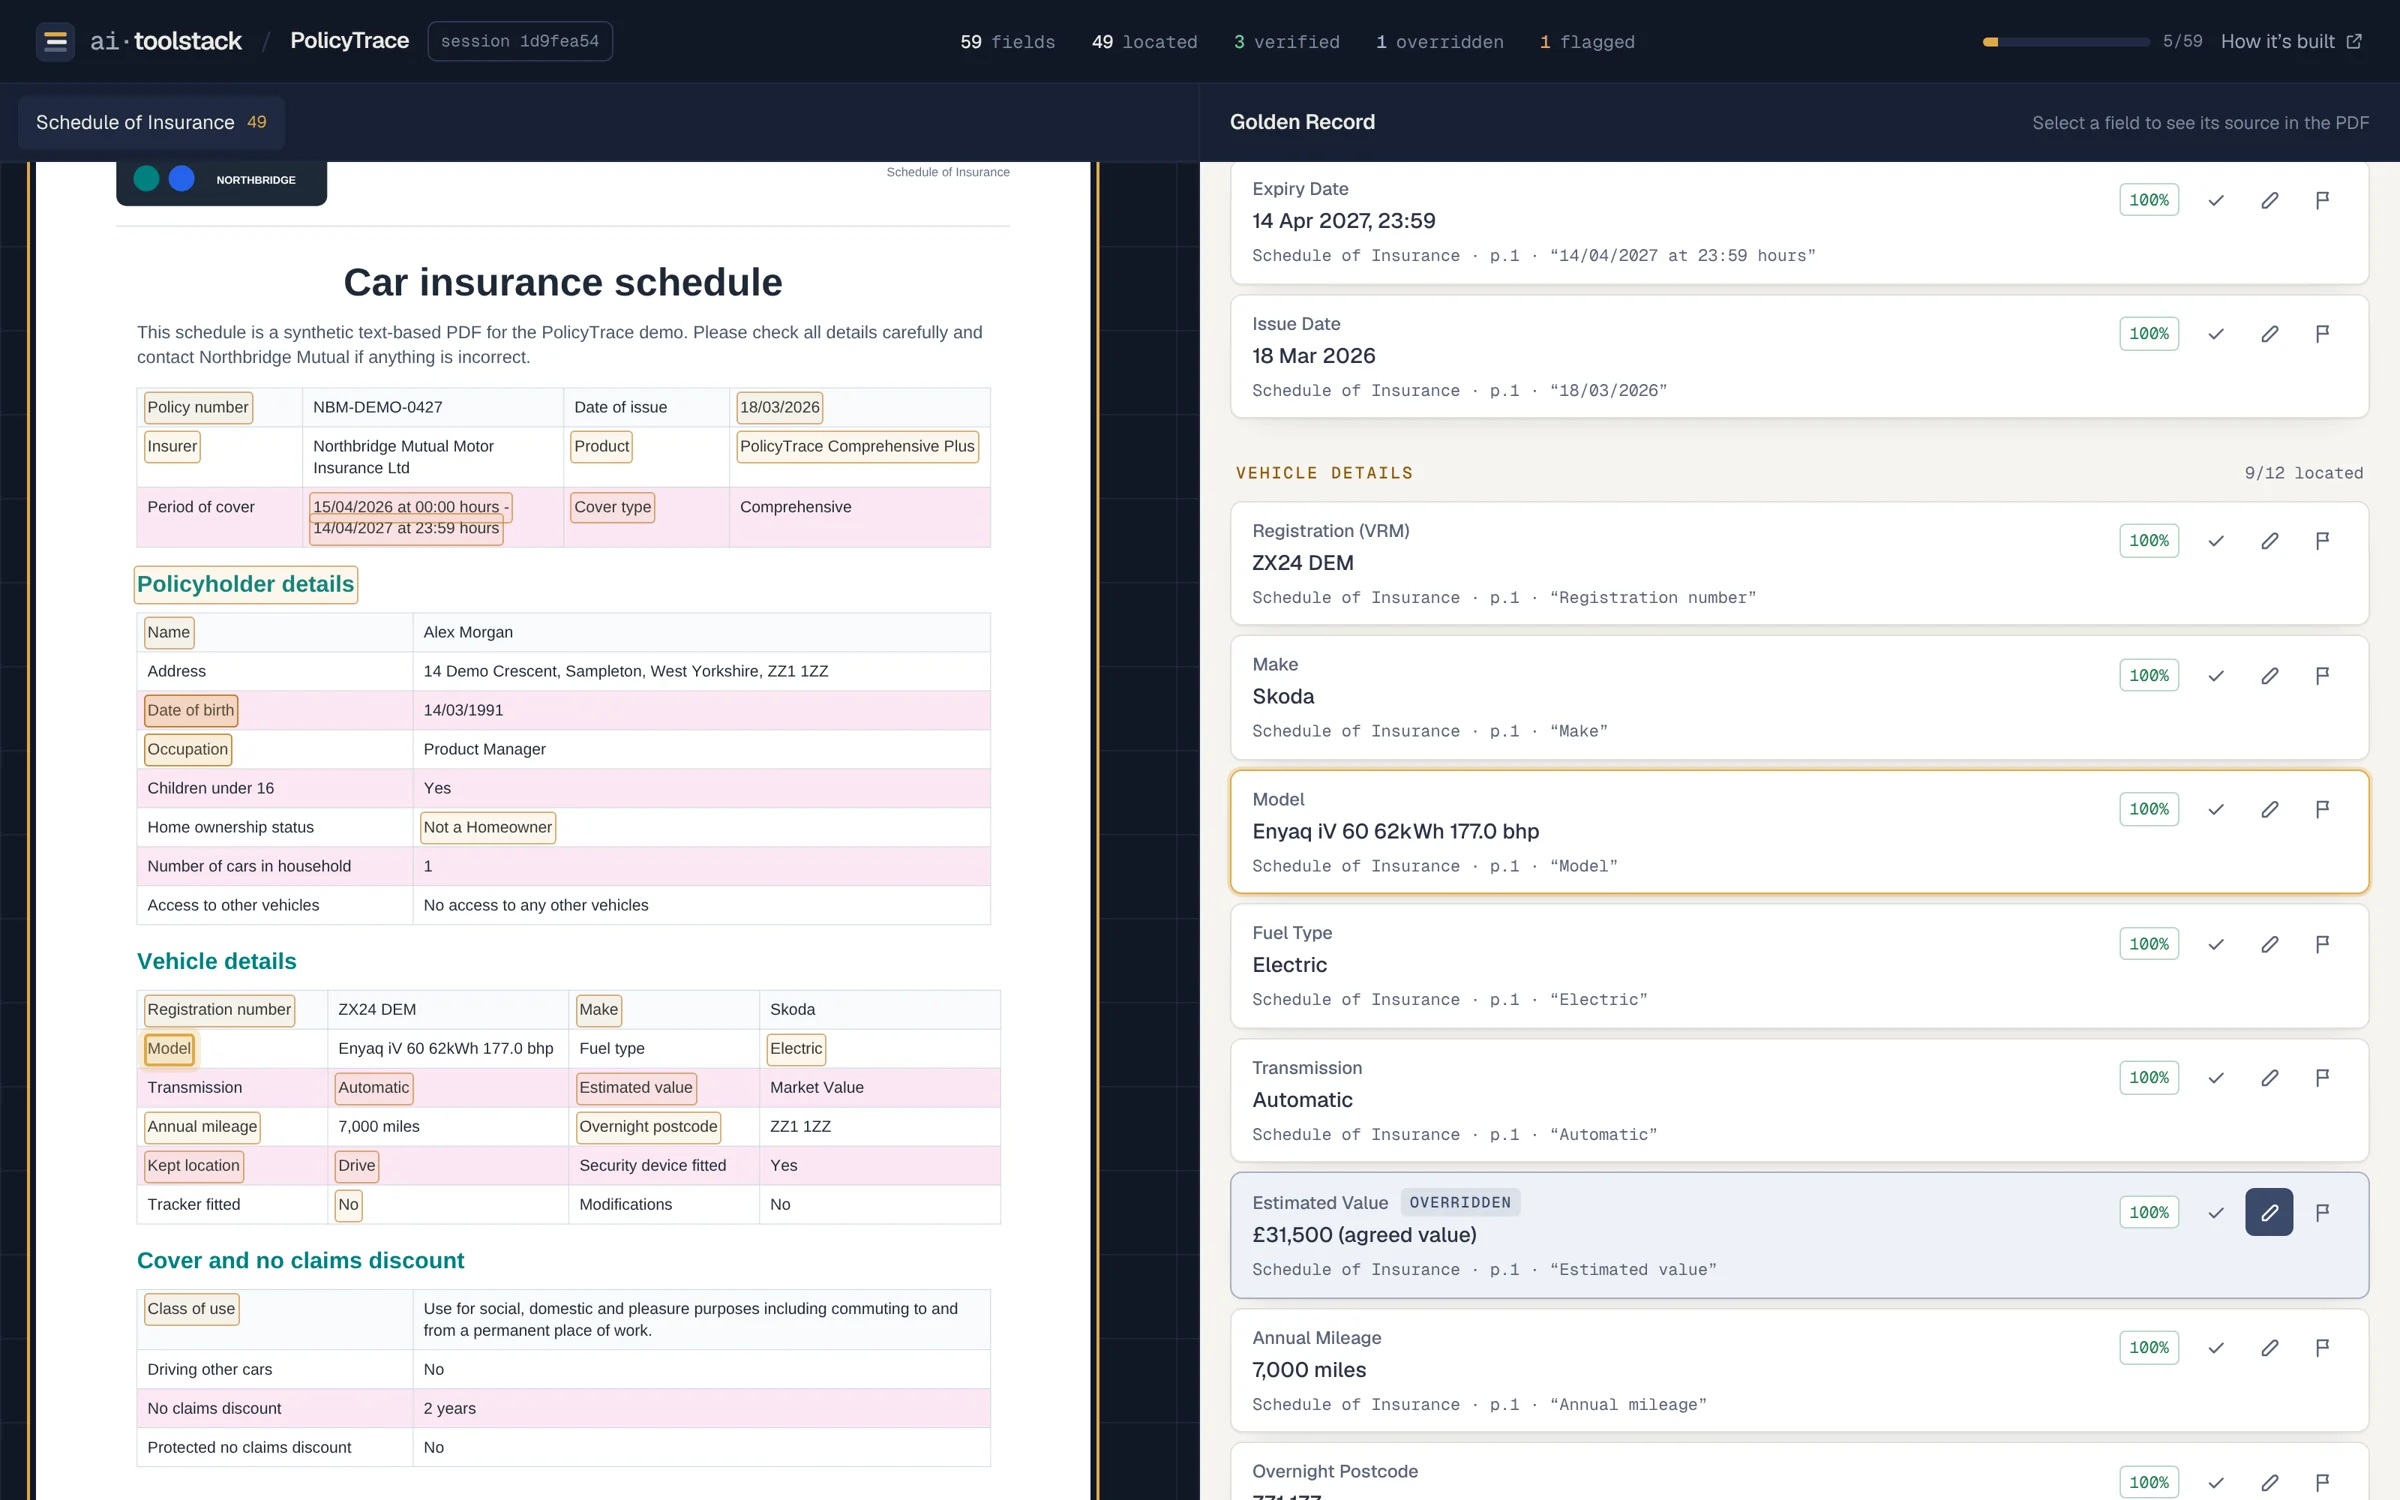
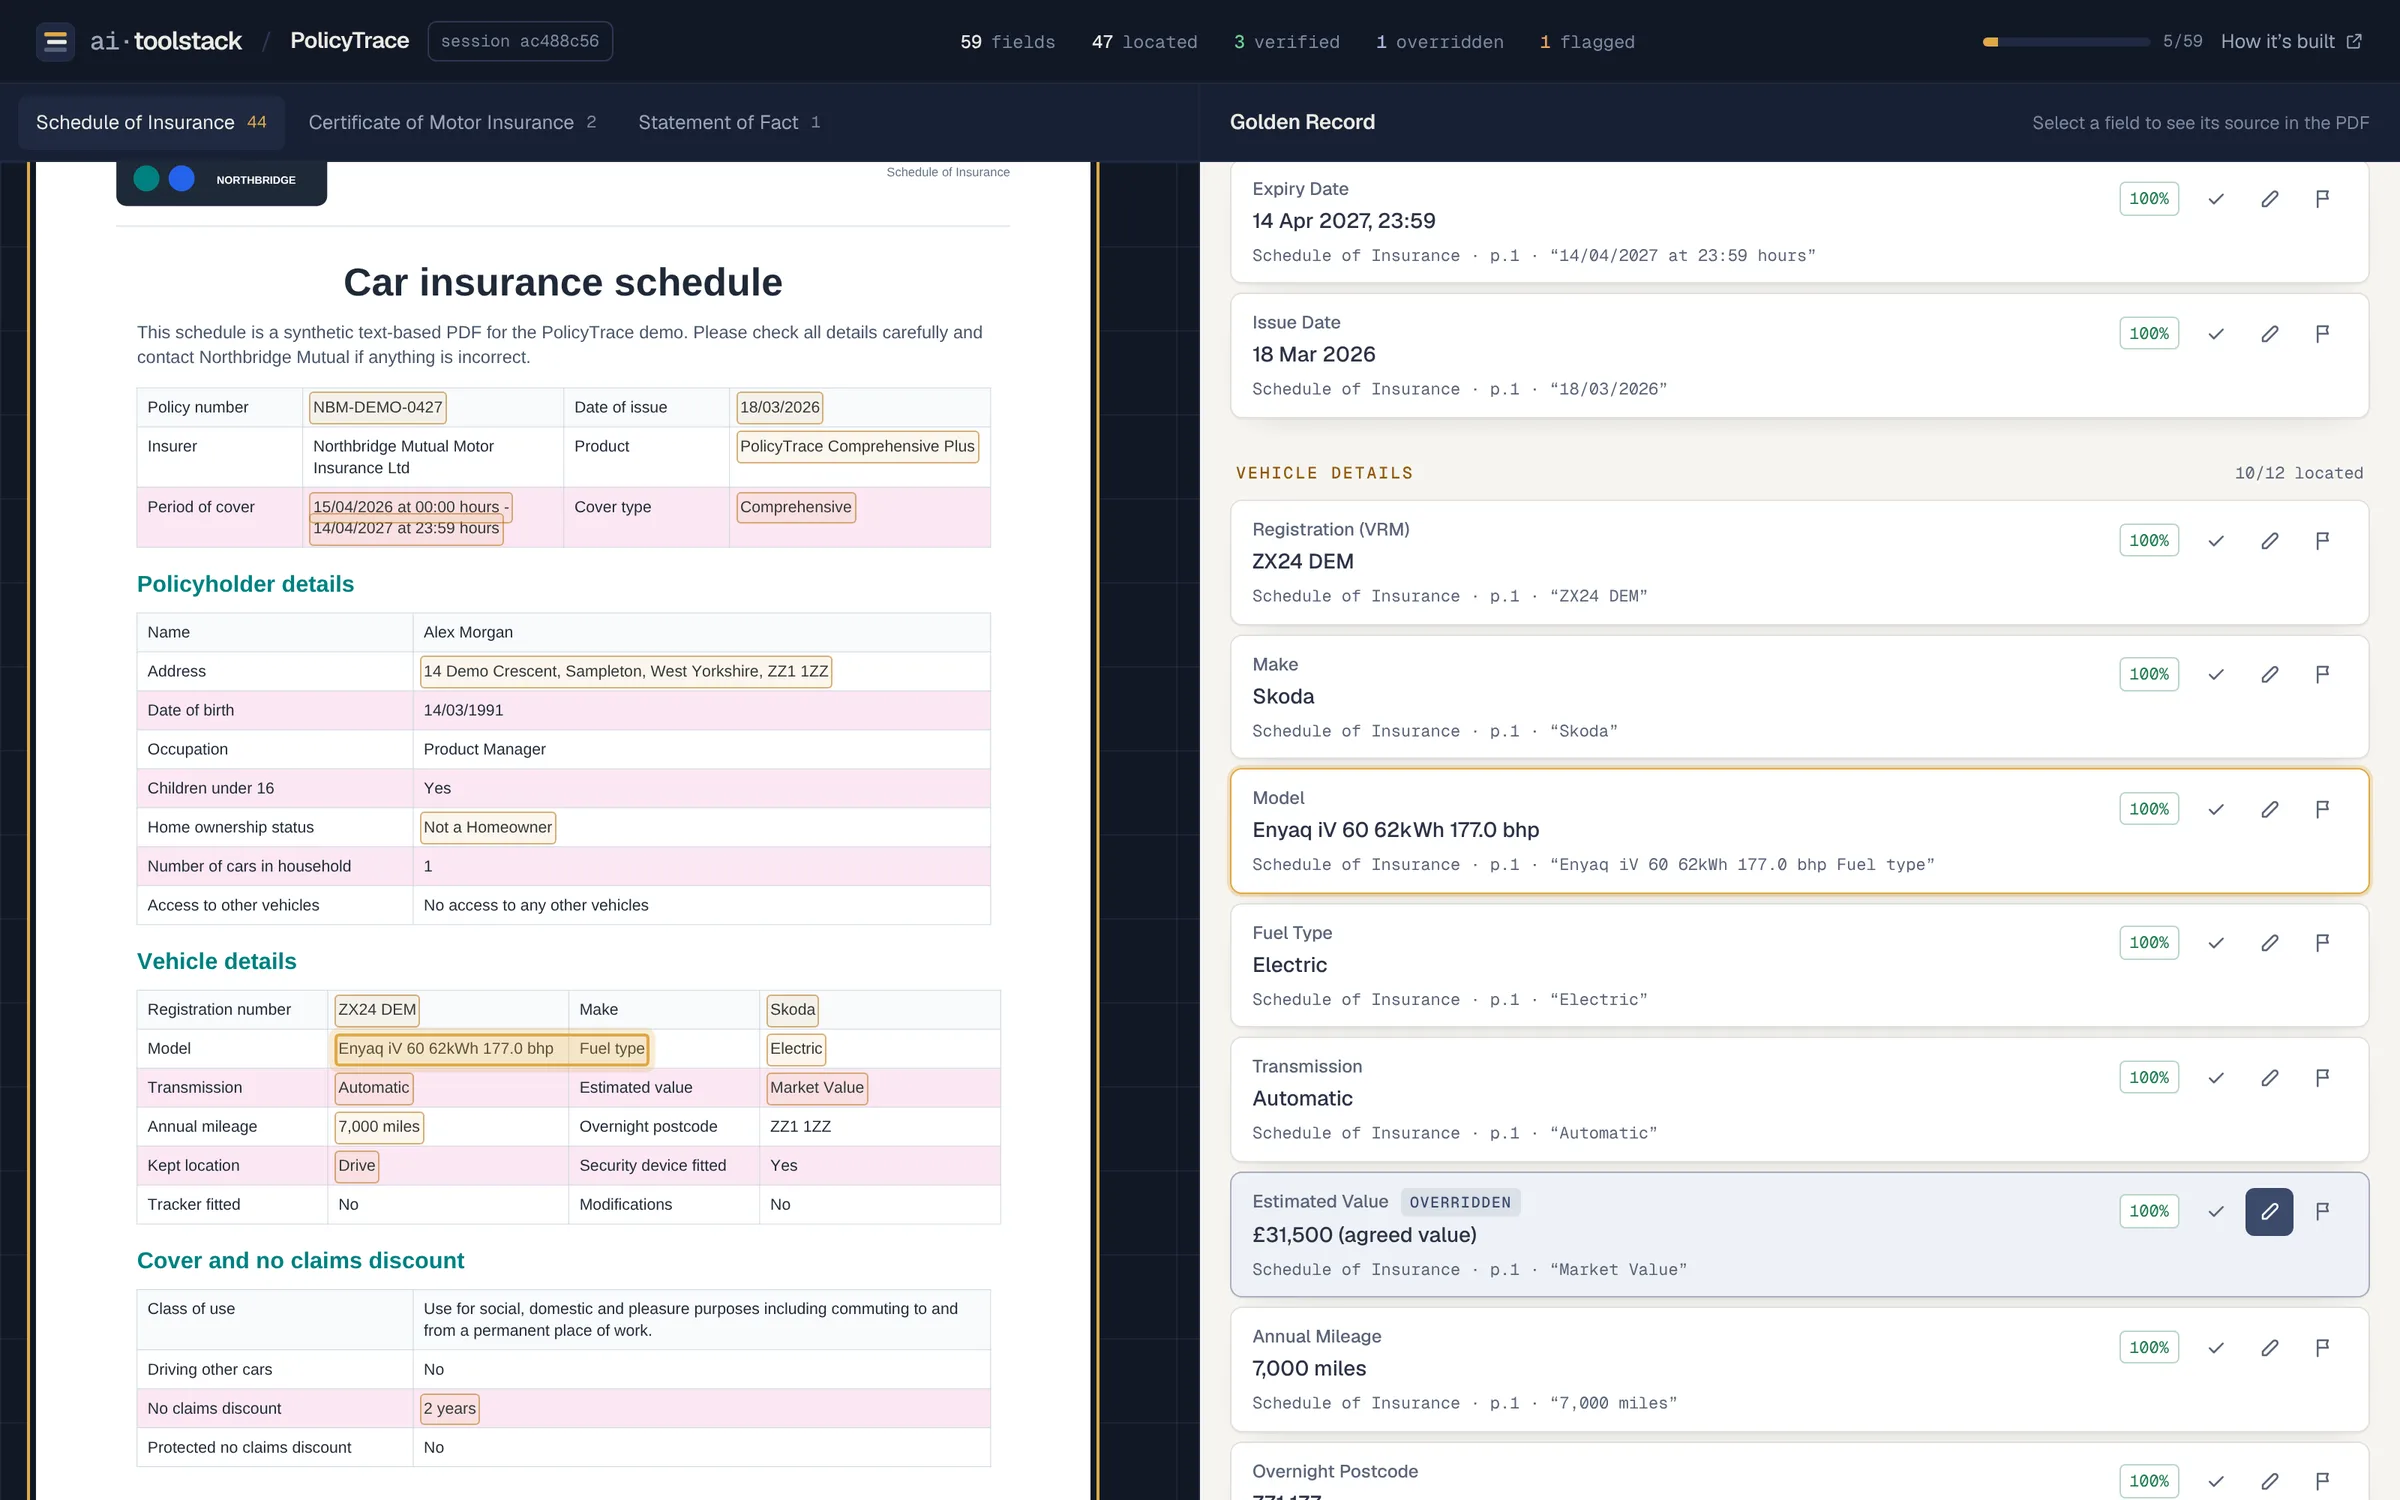
Refresh README screenshots from a run with the driver-matching fixes
Claude-Session: https://claude.ai/code/session_012jpG2K8EygtK139MM1qN1U

diff --git a/README.md b/README.md
@@ -194,7 +194,7 @@ See [SECURITY.md](SECURITY.md).
 
 ## Current Limitations
 
-- Public demo extraction is synchronous and can take 30 to 90 seconds.
+- Public demo extraction is synchronous and takes two to three minutes on the Groq free tier.
 - Provenance matching is useful but not a legal-grade guarantee.
 - Public deployments should use synthetic/redacted documents unless stronger retention and access controls are added.
 - Production use needs authentication, audit logs, monitoring, and storage policy controls.
